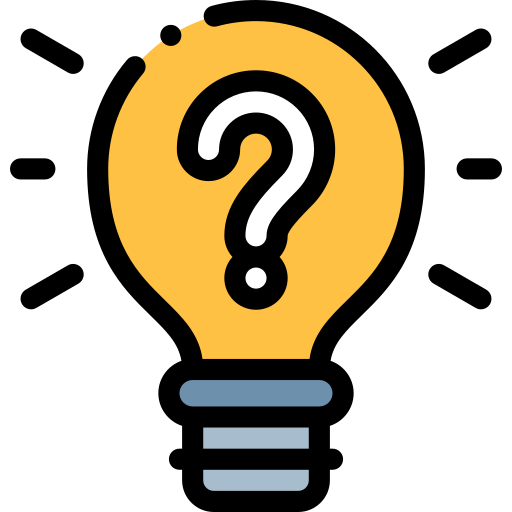
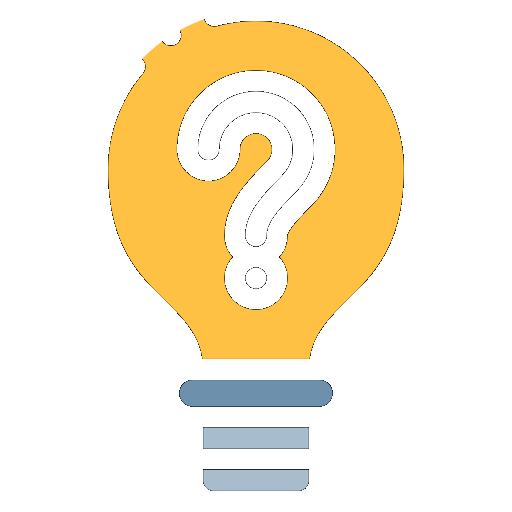
user table

diff --git a/frontend/src/styles/main.scss b/frontend/src/styles/main.scss
@@ -268,7 +268,7 @@ td { font-size: .9rem; line-height: 1.35; }
 .overview-metrics span { color: $muted; font-size: .82rem; }
 .overview-metrics strong { margin-top: .2rem; font-size: 1.45rem; line-height: 1.15; }
 .metric-icon { display: grid; width: 40px; height: 40px; flex: 0 0 40px; place-items: center; border-radius: 12px; }
-.metric-icon-image { width: 22px; height: 22px; object-fit: contain; display: block; }
+.metric-icon-image { width: 28px; height: 28px; object-fit: contain; display: block; background: transparent; }
 .metric-icon.neutral { background: #eef6f4; color: #2f6f6a; }
 .metric-icon.warning { background: #f5f8d9; color: #6f7a13; }
 .metric-icon.success { background: #e7f4f0; color: #2f6f6a; }